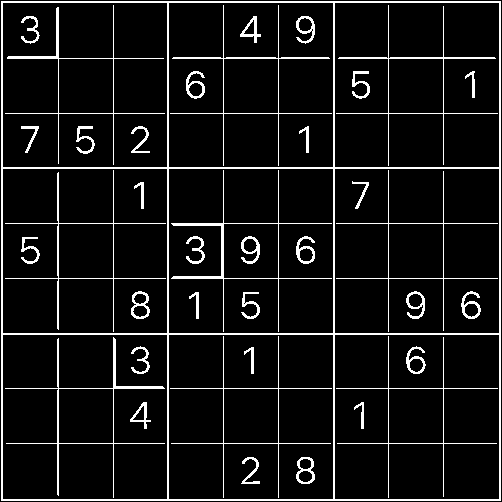
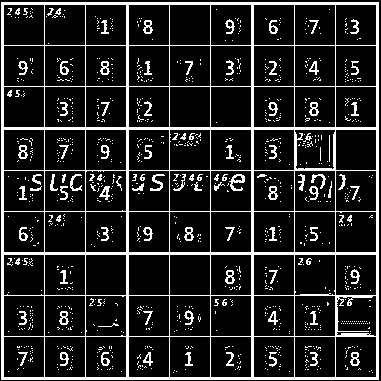
Updates

diff --git a/extract-sudoku.py b/extract-sudoku.py
@@ -32,6 +32,44 @@ print("Selected file:", IMAGE)
 
 OUTPUT = "cells"
 
+def check_duplicates(game):
+    errors = []
+
+    # Rows
+    for r in range(9):
+        values = [v for v in game[r] if v != 0]
+        if len(values) != len(set(values)):
+            errors.append(f"duplicate in row {r + 1}")
+
+    # Columns
+    for c in range(9):
+        values = [
+            game[r][c]
+            for r in range(9)
+            if game[r][c] != 0
+        ]
+        if len(values) != len(set(values)):
+            errors.append(f"duplicate in column {c + 1}")
+
+    # 3x3 boxes
+    for br in range(0, 9, 3):
+        for bc in range(0, 9, 3):
+            values = []
+
+            for r in range(br, br + 3):
+                for c in range(bc, bc + 3):
+                    if game[r][c] != 0:
+                        values.append(game[r][c])
+
+            if len(values) != len(set(values)):
+                errors.append(
+                    f"duplicate in box "
+                    f"r{br + 1}-{br + 3}, "
+                    f"c{bc + 1}-{bc + 3}"
+                )
+
+    return errors
+
 def load_training():
 
     samples = []
@@ -282,6 +320,13 @@ for row in range(9):
                 f"d={second_distance:.0f} "
                 f"ratio={distance/second_distance:.3f}"
             )
+            if distance > 20_000_000:
+                print(
+                    f"WARNING r{row+1}c{col+1}: "
+                    f"uncertain recognition "
+                    f"{value}, distance={distance:.0f}, "
+                    f"ratio={distance/second_distance:.3f}"
+                )            
             cv2.imwrite(
                 f"digits/r{row+1}c{col+1}.png",
                 digit
@@ -305,6 +350,11 @@ for row in range(9):
         linear += str(game[row][col]);
 
 print(linear)
+
+errors = check_duplicates(game)
+
+for error in errors:
+    print("WARNING:", error)
 
 gfile = os.path.splitext(IMAGE)[0] + ".game"
 path = f"../games/{gfile}"
